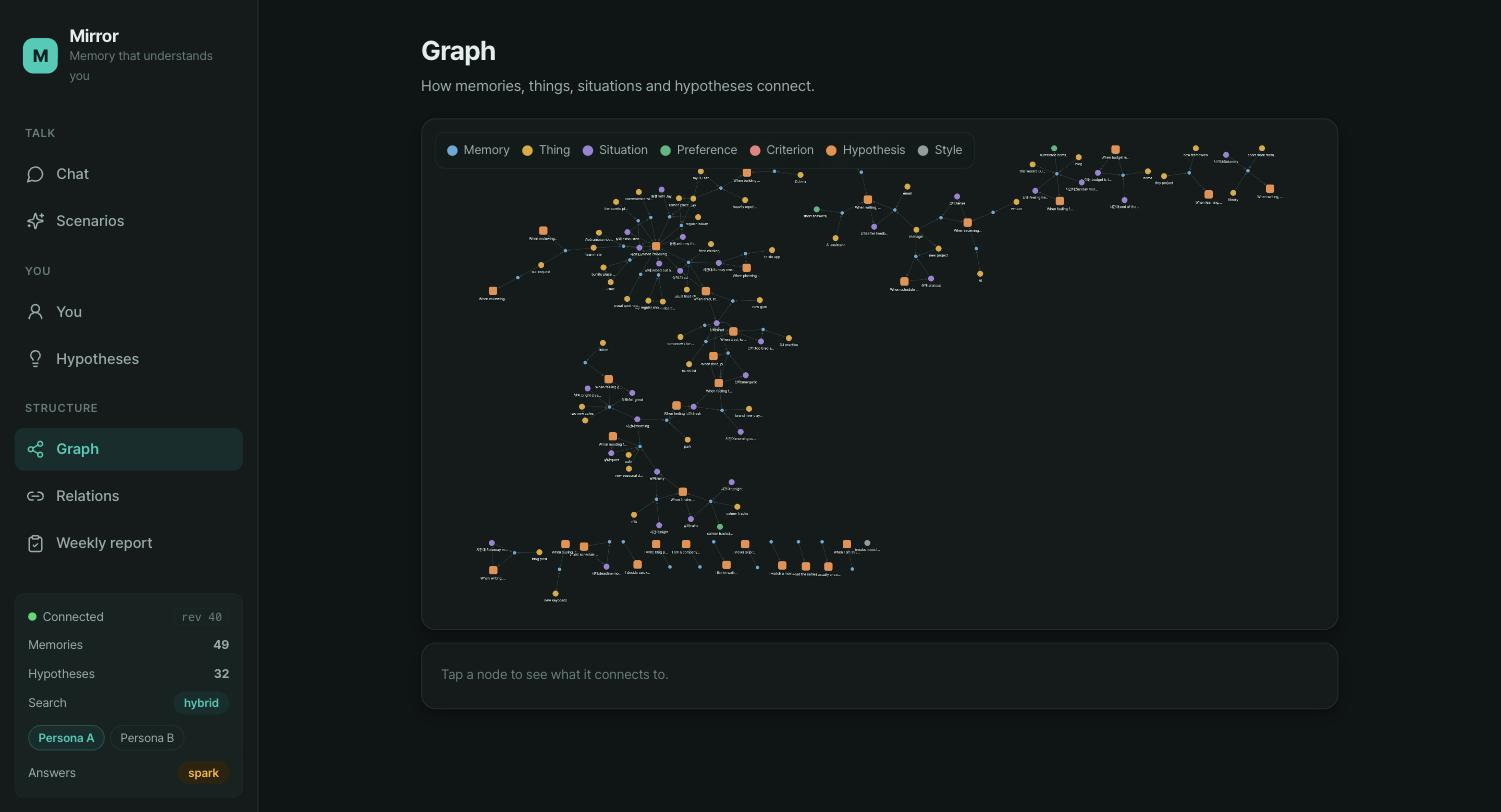
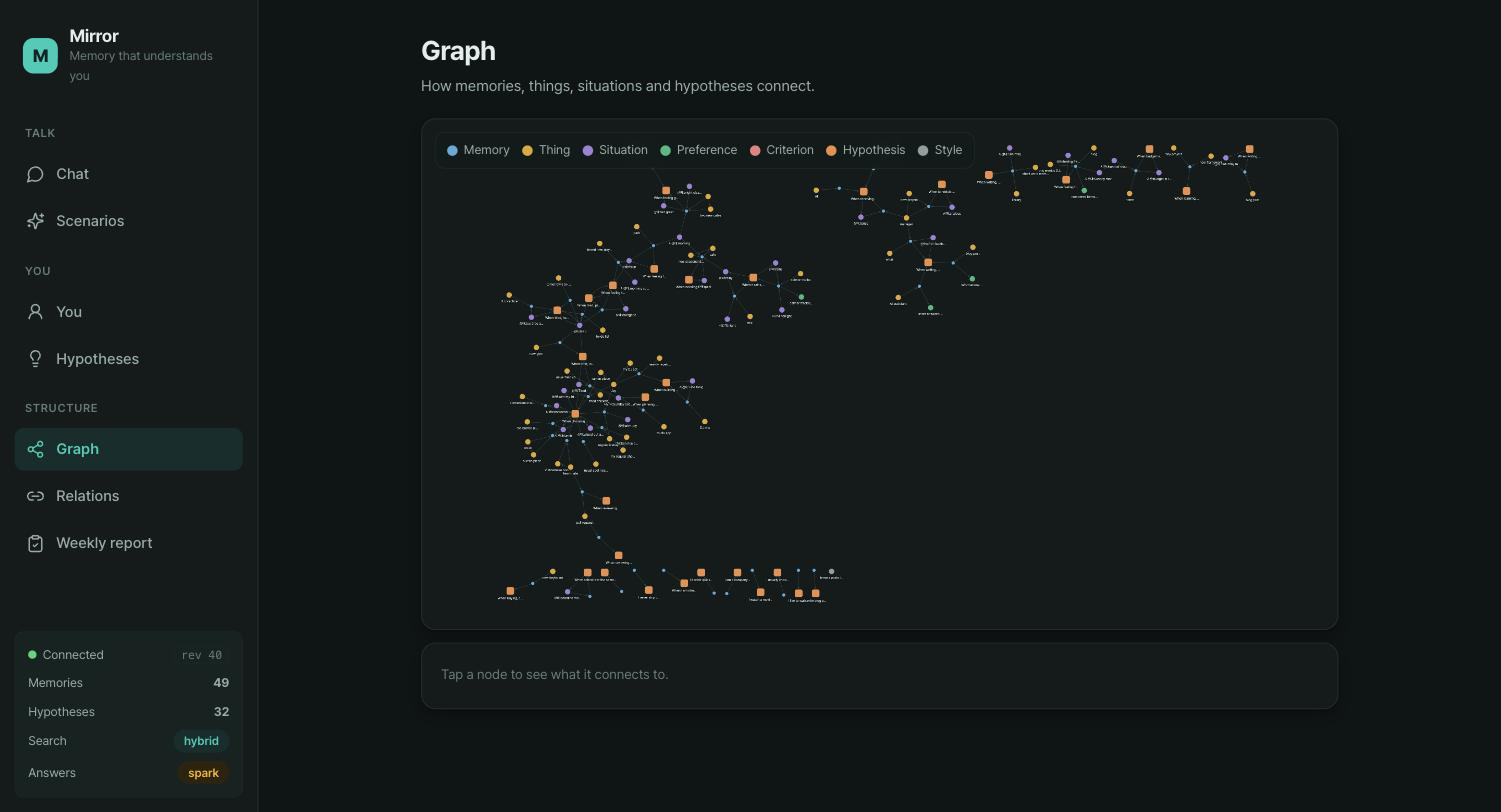
Treat the two demo people as separate users; tidy the README and media
- docker-compose: the two containers are plain, unrelated users (User A, User B). Remove the
  person switcher, which made them look like something to choose between.
- Rename the services, the docs and the screenshots from "persona" to "user".
- Retake the screenshots and the body-map demo without the switcher.
- README: centred header with badges and quick links, a table of screenshots, and the long
  reference parts folded away.

diff --git a/README.md b/README.md
@@ -1,49 +1,75 @@
+<div align="center">
+
 # Mirror
 
-**A personal-understanding agent that sits next to the AI tools you already use.**
-It keeps what it learns about you as a time-aware knowledge graph, shows it back to you as a map
-of your own body, and hands the relevant parts to other AI services when you ask it to.
+**An agent that learns how you think and choose, and lends that to the AI tools you already use.**
 
-<p align="center">
-  <img src="docs/media/body-map.gif" alt="Tapping Brain, Hands and Heart flies into each region of the body map" width="860">
-</p>
+It keeps what it learns as a time-aware knowledge graph, shows it back to you as a map of your own
+body, and gives the relevant part to another AI when you ask it to.
 
-Mirror is not a diary. You tell it what happened, in your own words. It works out the things
-that repeat (what you reach for when you are tired, how you like documents written, what you
-do under a deadline), keeps the evidence next to each one, and lets you say "that is wrong".
-Nothing it shows you is a verdict about your personality: every claim comes with the memories
-behind it, and you can correct, suppress or delete it.
+![Python 3.11](https://img.shields.io/badge/python-3.11-3776AB?logo=python&logoColor=white)
+![Docker Compose](https://img.shields.io/badge/docker-compose-2496ED?logo=docker&logoColor=white)
+![Tests](https://img.shields.io/badge/tests-362%20passing-2ea44f)
+![Graph](https://img.shields.io/badge/graph-Kuzu-7B61FF)
+![MCP](https://img.shields.io/badge/MCP-supported-0F766E)
+![Built with Muse](https://img.shields.io/badge/built%20with-Muse-0866FF)
+
+[Quick start](#quick-start) ·
+[Connect it to other AI](#connect-it-to-other-ai-services) ·
+[How it works](#how-it-works) ·
+[Run without containers](#run-it-without-containers) ·
+[Hosted version](#a-hosted-multi-user-version-shelved)
+
+<img src="docs/media/body-map.gif" alt="Tapping Brain, Hands and Heart flies into each region of the body map" width="860">
+
+</div>
+
+---
+
+Mirror is not a diary. You tell it what happened, in your own words. It works out what repeats
+(what you reach for when you are tired, how you like a document written, what you cut under a
+deadline), keeps the evidence next to each pattern, and lets you say "that is wrong". Nothing it
+shows is a verdict about your personality: every claim comes with the memories behind it, and you
+can correct, suppress or delete it.
 
 ## What you see
 
-| | |
-|---|---|
-| <img src="docs/media/body-map-persona-a.jpg" alt="Persona A body map"> | <img src="docs/media/body-map-persona-b.jpg" alt="Persona B body map"> |
-| **Persona A**, who likes routine. Everything Mirror knows is sorted by the part of the body it belongs to: the brain thinks and chooses, the ears listen, the mouth eats, the hands write and make. Tap a part to fly in. | **Persona B**, the opposite: spontaneous, social, drawn to novelty. Same app, a different person, a different character, built from that person's own profile. |
-
-| | |
-|---|---|
-| <img src="docs/media/hypotheses.jpg" alt="Hypotheses with evidence and counter-examples"> | <img src="docs/media/scenarios.jpg" alt="Fourteen everyday scenarios"> |
-| **Hypotheses.** Each pattern lists the memories that support it and the ones that contradict it. Mark it Correct, Wrong or Don't use. | **Scenarios.** Fourteen everyday tasks (write a document, pick music, plan a trip, review code, work with someone) helped by what Mirror knows. A hook can fire one automatically. |
+<table>
+<tr>
+<td width="50%"><img src="docs/media/body-map-user-a.jpg" alt="Body map of user A"></td>
+<td width="50%"><img src="docs/media/body-map-user-b.jpg" alt="Body map of user B"></td>
+</tr>
+<tr>
+<td valign="top"><b>The body map.</b> Everything Mirror knows is sorted by the part of the body it belongs to: the brain thinks and chooses, the ears listen, the mouth eats, the hands write and make. Tap a part to fly in.</td>
+<td valign="top"><b>Every person gets their own.</b> This is a different user, who likes the opposite things. The character is drawn from that person's own profile, and sensitive areas are left out.</td>
+</tr>
+<tr>
+<td><img src="docs/media/hypotheses.jpg" alt="Hypotheses with evidence and counter-examples"></td>
+<td><img src="docs/media/scenarios.jpg" alt="Fourteen everyday scenarios"></td>
+</tr>
+<tr>
+<td valign="top"><b>Hypotheses.</b> Each pattern lists the memories that support it and the ones that contradict it. Mark it Correct, Wrong or Don't use.</td>
+<td valign="top"><b>Scenarios.</b> Fourteen everyday tasks (write a document, pick music, plan a trip, review code, work with someone) helped by what Mirror knows. A hook can start one for you.</td>
+</tr>
+</table>
 
 <p align="center"><img src="docs/media/graph.jpg" alt="Knowledge graph of memories, things, situations and hypotheses" width="720"></p>
 
-The two characters are fictional demo people, drawn from their own profiles. Their memories are in
-`data/demo/` and `data/demo2/`.
+The two users in the screenshots are made up. Their memories are in `data/demo/` and `data/demo2/`.
 
 ## Quick start
 
-One container per person. Each mounts only its own data folder, so people never see each other's
-memories.
+One container per user. Each mounts only its own data folder, so users never see each other's
+memories and neither knows the other exists.
 
 ```sh
 echo 'META_API_KEY=...' > .env        # to learn from new memories and write answers. Git ignores .env
 docker compose up -d --build
 
-# Persona A   http://127.0.0.1:8011     data/demo
-# Persona B   http://127.0.0.1:8012     data/demo2
-docker compose ps                       # open it once the status is healthy
-docker compose down                     # stop. Your data stays in data/
+# User A   http://127.0.0.1:8011     data/demo
+# User B   http://127.0.0.1:8012     data/demo2
+docker compose ps                      # open it once the status is healthy
+docker compose down                    # stop. Your data stays in data/
 ```
 
 - You can **read everything that is already there without a key**: memories, profile, body map,
@@ -54,14 +80,13 @@ docker compose down                     # stop. Your data stays in data/
 - **Only one process may open a database file** (Kuzu allows one). Do not run
   `python -m mirror.app` on the same `data/demo` while its container is up.
 - **Ports 8011 and 8012** avoid 8001 and 8002, which other containers on a developer machine often hold.
-- **Starting from a fresh clone** is fine: the demo databases are rebuilt from the observations
+- **Starting from a fresh clone** is fine. The demo databases are rebuilt from the observations
   (needs `META_API_KEY`, takes a few minutes):
   ```sh
-  docker compose run --rm --entrypoint python persona-a -m mirror.ingest /data/persona_observations.jsonl --db /data/mirror.kuzu
-  docker compose run --rm --entrypoint python persona-b -m mirror.ingest /data/persona_observations.jsonl --db /data/mirror.kuzu
+  docker compose run --rm --entrypoint python user-a -m mirror.ingest /data/persona_observations.jsonl --db /data/mirror.kuzu
+  docker compose run --rm --entrypoint python user-b -m mirror.ingest /data/persona_observations.jsonl --db /data/mirror.kuzu
   ```
-- **To add a person**, copy one service in `docker-compose.yml`, change the port and the `data/<folder>`,
-  and add a line to `MIRROR_PERSONAS` (the chips that switch between people).
+- **To add a user**, copy one service in `docker-compose.yml` and change the port and the `data/<folder>`.
 - Kuzu's file format is tied to its version. It must match the version that wrote the databases
   (`KUZU_VERSION` in `Dockerfile.local`, currently 0.11.3).
 - The embedding model is shared from `data/models` as `/models`. If it is missing it is downloaded on
@@ -72,21 +97,19 @@ docker compose down                     # stop. Your data stays in data/
 | How | What you need | Notes |
 |---|---|---|
 | **Hooks** for Claude Code and Muse Code | Nothing | The simplest, and the one checked end to end. Every prompt gets the relevant memories added, and unrelated prompts get nothing. |
-| **MCP** (`/mcp`), **plain HTTP** (`/v1/context`, `/v1/remember`), an **OpenAI-compatible gateway** | An edge container and a token | `echo "MIRROR_TOKEN_A=$(openssl rand -hex 24)" >> .env`, then `docker compose --profile edge up -d`. Edges listen on 8111 (A) and 8112 (B). |
+| **MCP** (`/mcp`), **plain HTTP** (`/v1/context`, `/v1/remember`), an **OpenAI-compatible gateway** | An edge container and a token | `echo "MIRROR_TOKEN_A=$(openssl rand -hex 24)" >> .env`, then `docker compose --profile edge up -d`. Edges listen on 8111 (user A) and 8112 (user B). |
 | **The Muse agent** (muse.ai) | A public HTTPS address and an edge token | It is a cloud service, so it cannot reach a local address. Needs a tunnel. Not verified. See `docs/CONNECT.md`. |
 
 The app ports (8011, 8012) have no sign-in. Only the edge should ever be exposed.
 
-### Hooks
-
-No token is needed. From the project you want to use it in:
+**Hooks.** No token is needed. From the project you want to use it in:
 
 ```sh
 python integrations/claude_code/mirror_hook.py --install --target muse --url http://127.0.0.1:8011
-# Claude Code: --target claude (the default). For the other person, use port 8012.
+# Claude Code: --target claude (the default). For the other user, use port 8012.
 ```
 
-Full details, the MCP and gateway setup and the cloud-agent notes are in [`docs/CONNECT.md`](docs/CONNECT.md).
+Full details, the MCP and gateway setup, and the cloud-agent notes are in [`docs/CONNECT.md`](docs/CONNECT.md).
 
 ## Principles
 
@@ -113,6 +136,9 @@ Full details, the MCP and gateway setup and the cloud-agent notes are in [`docs/
                                                                     2 distinct days with no contradiction
 ```
 
+<details>
+<summary><b>Where things live</b></summary>
+
 ```
 mirror/
   schema.py store.py          ontology and the Kuzu two-time store
@@ -135,7 +161,7 @@ mirror/
 integrations/claude_code/     the hook for Claude Code and Muse Code, and a Muse Code skill
 supabase/                     migrations for the hosted version
 Dockerfile.local docker-compose.yml     the containers above
-data/demo/ data/demo2/        two fictional people: observations, a ready database, their characters
+data/demo/ data/demo2/        two made-up users: observations, a ready database, their characters
 docs/                         CONNECT.md, AVATAR.md, DEPLOY.md, media/
 eval/                         scoring guide and recorded results
 tests/                        unit and integration tests
@@ -144,6 +170,8 @@ tests/                        unit and integration tests
 Personal sample data and generated reports are not in the repository. Bring your own JSONL in the
 same format as `data/demo/persona_observations.jsonl`. The scoring format is in `eval/GUIDELINE.md` and
 the recorded measurements are in `eval/RESULTS.md`.
+
+</details>
 
 ## Run it without containers
 
@@ -213,6 +241,9 @@ account (without one the machine is stopped every five minutes), and putting the
 server in the same region (with the server in Tokyo and the database in Ireland, a single request
 spent over ten seconds waiting on the database).
 
+<details>
+<summary><b>What it does, and what is verified</b></summary>
+
 With `MIRROR_HOSTED=1`, Mirror stores each person's data in Postgres (Supabase) instead of Kuzu and
 every `/api/*` call needs a Supabase sign-in token.
 
@@ -244,13 +275,15 @@ Google and Meta sign-in, and a hook against a deployed address. Steps and what i
 | `MIRROR_RATE_ALL`, `MIRROR_RATE_COSTLY` | Per-person limits per minute (default 120 and 10) |
 | `MIRROR_WORKER=0` | Turn off the worker thread in web processes (when running `python -m mirror.worker` separately) |
 
+</details>
+
 ## Built with
 
-- **Muse Spark** through the Meta Model API reads memories and extracts what repeats.
-- **Muse Image** draws the characters. Each one is designed from the person's own profile, with
-  sensitive areas left out.
 - **Muse Code** wrote the initial implementation of Mirror: the knowledge graph, the extraction pipeline
   and the first version of the app. It is also a supported client, with a hook, an MCP entry and a skill included.
+- **Muse Spark**, through the Meta Model API, reads memories and extracts what repeats.
+- **Muse Image** draws the characters. Each one is designed from the person's own profile, with
+  sensitive areas left out.
 - Claude Code is a supported client too, through the same hook.
 - Kuzu for the graph, Starlette for the app, fastembed for local embeddings, Supabase for the hosted version.
 - The ideas of a dynamic ontology and a chat-first memory app come from MiroFish and personal.ai.

diff --git a/docs/AVATAR.md b/docs/AVATAR.md
@@ -16,7 +16,7 @@ META_API_KEY=... python -m mirror.avatar_gen --design --map-url http://HOST:8001
 # look at data/demo/avatar/candidates/, then install the one you like
 python -m mirror.avatar_gen --input data/demo/avatar/candidates/avatar2.png --out data/demo/avatar \
     --parts '{"brain":[0.5,0.1],"eyes":[0.43,0.245],"ears":[0.77,0.26],"mouth":[0.54,0.29],"heart":[0.64,0.435],"hands":[0.88,0.475],"feet":[0.5,0.9]}'
-python -m mirror.app --db data/demo/mirror.kuzu --avatar-dir data/demo/avatar --name "Persona A"
+python -m mirror.app --db data/demo/mirror.kuzu --avatar-dir data/demo/avatar --name "User A"
 ```
 
 `design.json` in the output folder records the profile items that were sent and the design
@@ -24,9 +24,6 @@ that came back. `--parts` is needed because every picture is a little different;
 looking at where the headgear, glasses, headphones, smile, chest item, held item and shoes
 are. `avatar.json` can also hold `"labels": {"heart": [1, -8, 1.0]}` (side, vertical offset,
 distance) to move a label that collides with something in the picture.
-
-Set `MIRROR_PERSONAS='[{"name": "A", "url": "http://HOST:8001"}, ...]'` to get a person
-switcher in the sidebar.
 
 ## Fastest: Muse Image
 

diff --git a/docs/CONNECT.md b/docs/CONNECT.md
@@ -18,7 +18,7 @@ service's own documentation before you rely on one.
 hooks. MCP, the gateway and the plain HTTP endpoints go through an **edge** container,
 one per person with its own token. It only starts when you ask for it.
 
-| | Persona A | Persona B |
+| | User A | User B |
 |---|---|---|
 | App and UI (no sign-in, keep on this machine) | `http://127.0.0.1:8011` | `http://127.0.0.1:8012` |
 | Edge (needs its token) | `http://127.0.0.1:8111` | `http://127.0.0.1:8112` |
